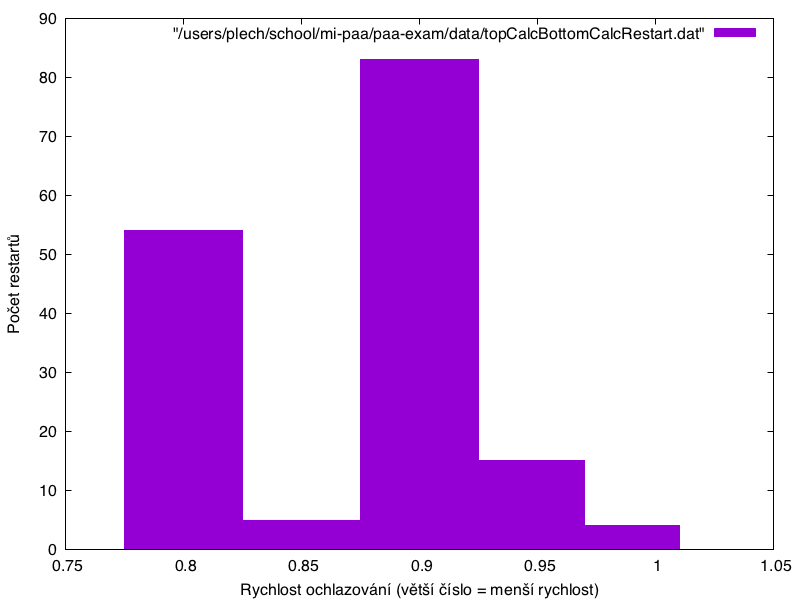
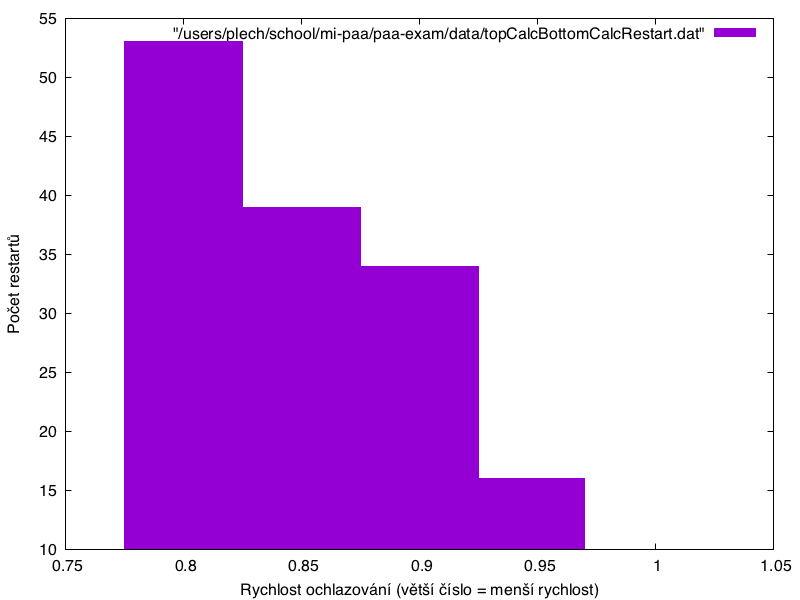
finished doc

diff --git a/data/main.tex b/data/main.tex
@@ -1,0 +1,218 @@
+\documentclass[12pt,a4paper]{article}
+\usepackage[utf8]{inputenc}
+\usepackage[czech]{babel}
+\usepackage{datetime}
+\usepackage{tabularx}
+\usepackage{graphicx}
+\usepackage{float}
+\renewcommand{\dateseparator}{. }
+\begin{document}
+
+\title{Řešení problému vážené splnitelnosti booleovské formule pokročilou iterativní metodou}
+\author{Dominik Plíšek}
+\date{\dmyyyydate\today}
+\maketitle
+
+\tableofcontents
+
+
+\section{Úvod}
+
+Zadáním je použít pokročilou iterativní metodu pro řešení problému splnitelnosti booleovské formule. Optimalizovanou hodnotou je celková váha tvořená součtem vah všech proměnných, které jsou ohodnoceny na TRUE. V této práci se budu zabývat metodou simulovaného ochlazování. 
+
+Úlohu jsem se rozhodl omezit na klauzule velikosti tří proměnných, takzvaný problém 3SAT. Tato úloha není lehčí, ale snadněji se mi implementovala.
+
+Vývoj řešičky budu provázet experimenty, které jsou prováděny na jednom vlákně procesoru 2,3 GHz Intel Core i7 s 6 MB L3 cache. Operační systém je Apple OS X verze 10.11.3.
+
+Program je napsaný v C++ a staví na mé předchozí zkušenosti s metodou simulovaného ochlazování implementovanou za účelem řešení problému batohu. Práce na toto téma je k dispozici zde:
+
+https://edux.fit.cvut.cz/courses/MI-PAA/student/plisedom/start\#uloha\_4.
+
+Pro měření času jsem použil funci clock() z time.h, která vrací procesorový čas, čili měřil jsem, jak dlouho procesor na úloze skutečně pracoval, bez ohledu na režii operačního systému okolo.
+
+
+
+\section{Implementační postupy}
+
+\subsection{Struktura}
+\label{structure}
+
+Program je psaný v C++ a používá (do jisté míry) objektově orientované principy. Tři základní třídy jsou:
+
+\begin{description}
+    \item[SATInstance] Udržuje informace o instanci, umí načíst cnf formát a umí sama sebe randomizovat a řešit.
+    \item[SATEvaluation] Obsahuje vektor ohodnocení proměnných instance, vektor splněných klauzulí, udržuje aktuální součet vah kladně ohodnocených proměnných a počet splněných formulí.
+    \item[SATClause] Obsahuje svůj index, vektor proměnných a vektor jejich kladnosti
+\end{description}
+
+SATInstance obsahuje vektor všech klauzulí instance. V případě, kdy změníme nějaké ohodnocení proměnné, museli bychom celý tento vektor vždy projít, abychom našli, v kterých klauzulích je proměnná použita. Řešení jsem zvolil takové, že SATInstance obsahuje navíc vektor říkající, v kterých klauzulích je která proměnná obsažena. Ten je podstatně menší a přes něj se při změně hodnoty proměnné můžeme velice efektivně dostat ke všem klauzulím, jejichž celkové ohodnocení je třeba upravit.
+
+\subsection{Postup řešení}
+
+\subsubsection{Randomizace}
+
+Nejprve je třeba zvolit počáteční ohodnocení. Toto volíme zcela náhodně. Nejprve projdeme všechny proměnné a náhodně je označíme jako TRUE/FALSE. Zároveň si připravujeme informaci o aktuální váze. Dále projdeme všechny klauzule instance a zapíšeme si, které klauzule jsou celkově ohodnoceny na TRUE a uložíme si tuto informaci spolu s informací o celkovém počtu kladně ohodnocených klauzulí.
+
+\subsubsection{Ekvilibrium}
+
+V průběhu řešení problému metodou simulovaného ochlazování je třeba v jistých intervalech snižovat teplotu. Rozhodnutí, zda dojde ke snížení teploty, se nazývá ekvilibrium. Zvolil jsem takovou podmínku, která sníží teplotu, máme-li již přijato tolik změn stavu, jaká je velikost instance (počet proměnných). 
+
+Taková varianta by však narazila v případě, že je řešení přijímáno málo. Proto jsem implementoval ještě jednu podmínku, která říká, že teplotu je třeba snížit i tehdy, když zvážíme tolik změn stavů, kolik je dvojnásobek počtu proměnných.
+
+\subsubsection{Hledání souseda}
+
+Hledání souseda jsem se rozhodl provést tak, že vyberu náhodnou proměnnou a otočím její ohodnocení, tedy byla-li TRUE, je nyní FALSE, a naopak. Poté projdu všechny klauzule, které tuto proměnnou obsahují (seznam takových klauzulí mám předem připravený, viz sekce \ref{structure}).
+
+\subsubsection{Přijetí horšího výsledku}
+
+Ochota přijmout horší výsledek, než je aktuální, určena dána aktuální teplotou, která je postupně snižována, a to vzorcem:
+
+\begin{verbatim}
+    randFloat < exp(-diff / temp)
+\end{verbatim}
+
+kde randFloat je náhodné reálné číslo mezi 0 a 1, diff je rozdíl hodnoty předchozího a aktuálního ohodnocení (kladné diff znamená zhoršení) a temp je momentální teplota.
+
+
+\subsubsection{Údržba dosud nejlepšího řešení}
+
+Pokaždé, když najdeme ohodnocení, které má všechny klauzule kladné, uložíme jej jako nejlepší, pokud nemá horší váhu než ohodnocení, které již máme uloženo jako nejlepší. Na počátku je nejlepší řešení takové, které má váhu 0.
+
+
+
+\subsubsection{Restart}
+
+Nepodaří-li se nám nalézt touto metodou žádné ohodnocení, které má všechny klauzule kladné, dříve než metoda zmrzne, proběhne restart. To znamená, že zvýšíme globální informaci o počtu restartů a spouštíme metodu od začátku. Celkový počet kroků řešení i měřič času je globální, to znamená, že obaluje celý postup včetně restartů. 
+
+
+
+
+
+
+\section{Volba parametrů}
+
+\subsection{Počáteční teplota}
+
+Jedním z rozhodnutí, které je třeba učinit, je způsob získání počáteční teploty. Tu lze volit fixně. Pak se ale může stát, že ji zvolíme příliš vysokou a metoda bude neefektivní, protože se bude dlouho potácet, aniž by konvergovala k nějakému minimu. To je vidět na obrázku \ref{tooHighStart}. Případně ji můžeme zvolit příliš nízkou, přičemž pak nastane situace, kdy metoda rychle uvízne v lokálním minimu a většinou ani nenalezne platný výsledek, proto se hned restartuje, viz obrázek \ref{tooLowStart}. Oba tyto grafy představují reálné běhy metody nad instancí CBS\_k3\_n100\_m403\_b30\_0.cnf při koeficientu ochlazování 0.99 a dynamicky odvozenou spodní hranicí teploty.
+
+\begin{figure}[H]
+\includegraphics[width=\textwidth]{tooHighStart}
+\caption{Příliš vysoká počáteční teplota}
+\label{tooHighStart}
+\end{figure}
+
+\begin{figure}[H]
+\includegraphics[width=\textwidth]{tooLowStart}
+\caption{Příliš nízká počáteční teplota}
+\label{tooLowStart}
+\end{figure}
+
+Dalším rozhodnutím je spodní mez teploty, tedy ta teplota, na níž se metoda zastaví. Tato opět lze volit fixně, ale může nastat problém, když zvolíme spodní hranici příliš vysoko. Metoda pak skončí dříve, než se dostane do fáze intensifikace, a většinou ani nenalezne platný výsledek, proto se hned restartuje, jak je vidět na obrázku \ref{tooHighEnd}. Při příliš nízké koncové teplotě můžeme zbytečně dlouho čekat na výsledek, který se již nemění, viz obrázek \ref{tooLowEnd}. Na tomto grafu jsou krásně vidět tři restarty, kde každý průbeh velice rychle klesl do minima a tam zůstal zbytečně dlouho. Oba tyto grafy představují reálné běhy metody nad instancí CBS\_k3\_n100\_m403\_b30\_0.cnf při koeficientu ochlazování 0.99 a dynamicky odvozenou horní hranicí teploty.
+
+\begin{figure}[H]
+\includegraphics[width=\textwidth]{tooHighEnd}
+\caption{Příliš vysoká koncová teplota}
+\label{tooHighEnd}
+\end{figure}
+
+\begin{figure}[H]
+\includegraphics[width=\textwidth]{tooLowEnd}
+\caption{Příliš nízká koncová teplota}
+\label{tooLowEnd}
+\end{figure}
+
+
+
+Počáteční teplota lze spočítat. Místo abychom ji hádali, spustíme nejdříve ,,metodu prudkého ohřívání``. Ta začne na velmi nízké počáteční teplotě a rychle ji zvyšuje. Jakmile je dosaženo teploty, kdy je poloviční pravděpodobnost, že je přijat jako další stav stav horší, zaznamenáme tuto teplotu jako počáteční, a teprve potom spouštíme normální běh metody.
+
+Tento postup jsem se rozhodl implementovat. Za rychlost ohřívání jsem zvolil parametr 1.5. Pro každou teplotu se spočítá počet přijatých skoků do sousedního stavu a kolik z nich jsou skoky k horšímu. Jakmile tento poměr dosáhne poloviny, zastaví se příprava, zaznamená se teplota a hlavní průběh metody se spustí s touto počáteční teplotou.
+
+
+\subsection{Zmrznutí}
+
+Koncová teplota lze též volit dynamicky. Lze počítat, kolik skoků se algoritmus rozhodl provést ze všech nabízených. V mém případě metoda tento poměr spočítá pro každou testovanou teplotu a dosáhne-li méně než 5\%, dojde ke ,,zmrznutí`` a metoda končí.
+
+
+
+
+
+
+
+\subsection{Optimalizovaná hodnota}
+
+Tato metoda naráží na zásadní problém, že v mnoha případech drtivá většina stavů (ohodnocení) není platným řešením, protože nemá všechny klauzule ohodnoceny na TRUE. Na rozdíl od problému batohu, který jsem touto metodou v minulosti řešil, nelze takové stavy prostě ignorovat, protože jich je velmi mnoho a postup by se snadno zcela zastavil. Bylo tedy třeba nasadit určité penále pro případ, že pracujeme se stavem, který není řešením.
+
+Vzhledem k tomu, že metoda počítá s optimalizací ve smyslu minimalizace, pracoval jsem s výchozím vzorcem:
+
+\begin{verbatim}
+    1.0 / (satisfiedClauseCount * weight)
+\end{verbatim}
+
+To znamená, že lepší řešení je takové, které má buď vyšší váhu, nebo vyšší počet splněných klauzulí. 
+
+Nelze však stavět tyto dva atributy do rovného postavení, protože pak může být dávána přednost váze před platností řešení, přičemž výsledkem je, že po 1000 restartů není nalezen správný výsledek, jak jsem experimentálně ověřil.
+
+Po dalších experimentech na obtížné instanci (s poměrem počtu klauzulí ku počtu proměnných kolem 4.3), konkrétně CBS\_k3\_n100\_m403\_b90\_7.cnf, jsem postupně zvyšoval roli počtu splněných klauzulí přes druhou mocninu, počet splněných klauzulí na druhou, až po 2 na počet splněných klauzulí. Výsledná formule, která funguje i pro takto obtížnou instanci (funguje ve smyslu je schopna vůbec najít v rozumném čase platné řešení), je taková:
+
+\begin{verbatim}
+    1.0 / (pow(2, satisfiedClauseCount) * weight)
+\end{verbatim}
+
+
+
+
+
+
+\subsection{Rychlost ochlazování}
+
+Za použití dynamického určení počáteční i koncové teploty jsem sledoval průběh metody na obtížné instanci CBS\_k3\_n100\_m403\_b90\_7.cnf postupně pro pět různých hodnot parametru rychlosti ochlazování, od 0,80 až po 0,99. Vyšší číslo znamená pomalejší pokles teploty a tak i delší dobu trvání každého chodu metody.
+
+V grafu \ref{topCalcBottomCalcRestart} je vidět vývoj počtu restartů a v grafu \ref{topCalcBottomCalcTime} je vidět vývoj doby trvání výpočtu. Aby měl graf vypovídající hodnotu, pro každou z pěti zkoušených teplot jsem provedl 100 měření a ty zprůměroval.
+
+Počet restartů s klesající rychlostí ochlazování též klesá. To znamená, že ochlazujeme-li opatrněji, je větší pravděpodobnost, že trefíme sestup do hlubšího minima, které obsahuje platné výsledky.
+
+Doba trvání výpočtu (tedy včetně restartů) však naopak příliš roste. To znamená, že z těchto hodnot se zdá být nejvýhodnější zvolit tu nejmenší, čili nejrychlejší ochlazování s koeficientem 0,80.
+
+
+\begin{figure}[H]
+\includegraphics[width=\textwidth]{topCalcBottomCalcRestart}
+\caption{Vývoj počtu restartů (průměr pro 100 běhů)}
+\label{topCalcBottomCalcRestart}
+\end{figure}
+
+\begin{figure}[H]
+\includegraphics[width=\textwidth]{topCalcBottomCalcTime}
+\caption{Vývoj doby trvání (průměr pro 100 běhů)}
+\label{topCalcBottomCalcTime}
+\end{figure}
+
+
+
+
+
+
+
+
+
+
+\section{Závěr}
+
+Je několik způsobů, jak implementovat metodu simulovaného ochlazování pro řešení problému vážené splnitelnosti booleovských formulí. V první řadě záleží na volbě, jak zacházet se skoky na stavy, které nejsou řešením, protože nemají všechny klauzule splněné. Zde jsem dospěl k názoru, že je třeba taková řešení penalizovat, a to tak, že do optimalizované hodnoty asymptoticky výrazně důležitěji započítáme počet splněných klauzulí než celkovou váhu. 
+
+Dále záleží na volbě počáteční i koncové teploty. Zde jsem se rozhodl pro co nejobecnější přístup přes dynamický výpočet obojího.
+
+Rychlost ochlazování je vhodná volit spíše rychlejší, protože ačkoli počet restartů s pomalejší rychlostí klesá, celkový čas výpočtu roste.
+
+Všiml jsem si jedné zajímavé vlastnosti. Mnoho chodů algoritmu nenajde žádný přijatelný stav (dříve uvázne v lokálním minimu). Nicméně najde-li algoritmus nějaký platný výsledek, ve většině případů ještě v rámci téhož průchodu nalezne další, lepší výsledky (s větší vahou). Vypadá to, jako že v rámci lokálního minima, kde se nachází nějaké řešení, se mnohdy nachází řešení více.
+
+
+
+\section*{Přílohy}
+
+\begin{description}
+    \item[sources.zip] Balík obsahující celý projekt v C++ spolu s CMakeLists.txt souborem pro CMake. V podsložce data se nacházejí tři zkušební instance v cnf formátu a různé výstupy a obrázky, z nichž ty podstatné jsou použity v tomto dokumentu.
+\end{description}
+
+
+
+\end{document}
